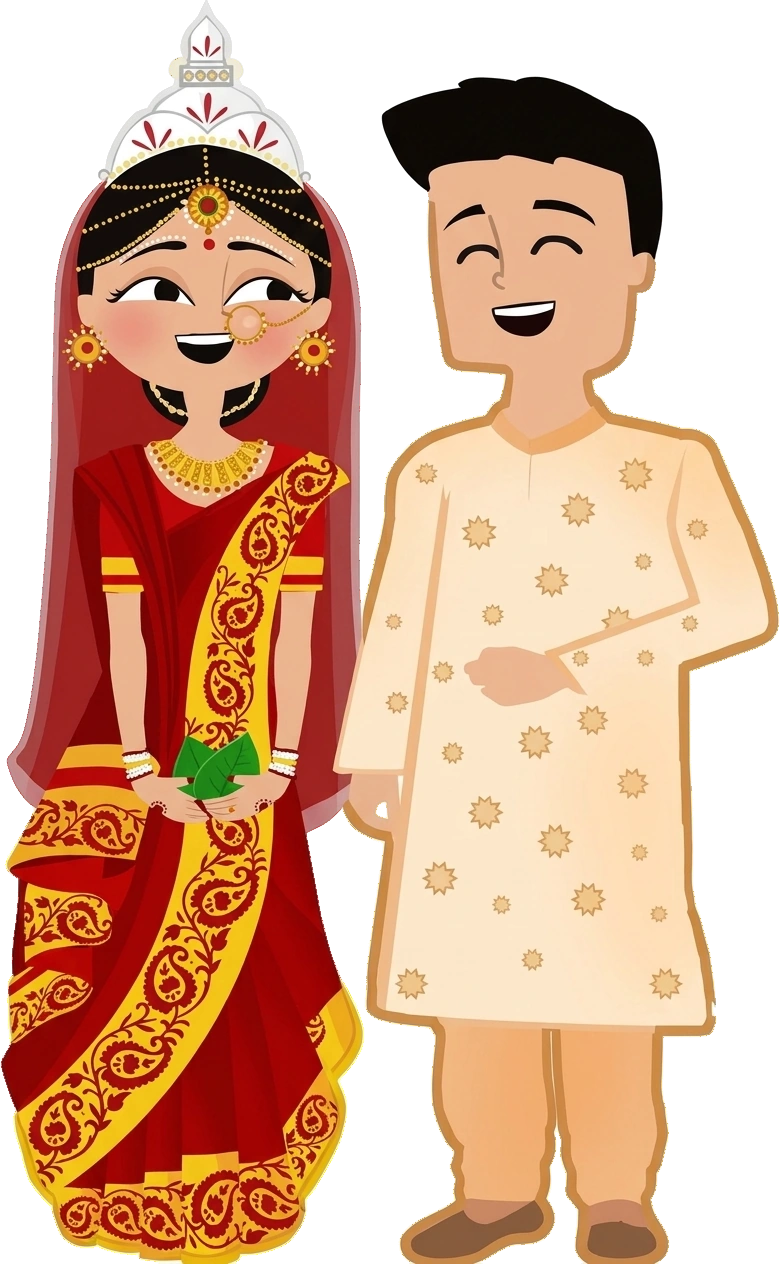
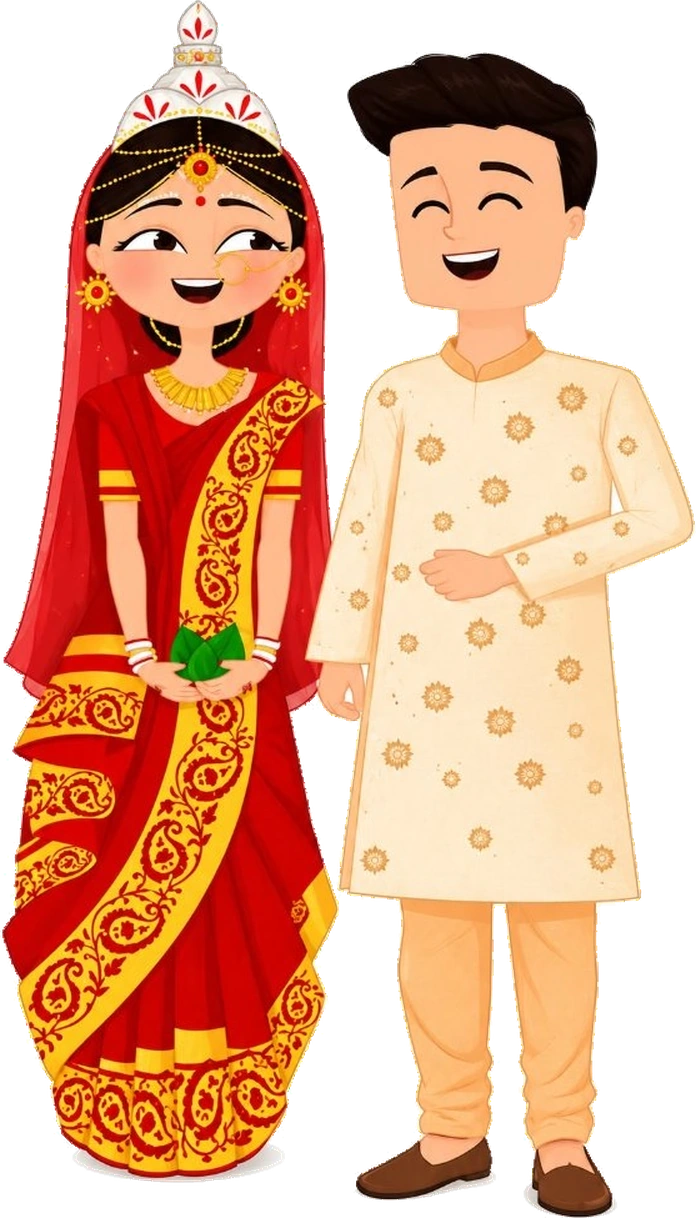
Upgrade couple illustration from original artwork and adjust event card padding to prevent View on Map overlapping couple faces

diff --git a/editable/wedding-data.js b/editable/wedding-data.js
@@ -78,6 +78,7 @@ window.WEDDING_DATA = {
       theme: "dark",
       topMask: "linear-gradient(to bottom, black 25%, transparent 37%)",
       botMask: "linear-gradient(to top, black 42%, transparent 54%)",
+      paddingBottom: "410px",
     },
     {
       name: "THE GOLDEN SOIRÉE",
@@ -95,6 +96,7 @@ window.WEDDING_DATA = {
       bgImage: "./editable/assets/haldi-bg.webp",
       bgColor: "#feebca",
       theme: "light",
+      paddingBottom: "360px",
     },
     {
       name: "THE SACRED UNION",
@@ -112,6 +114,7 @@ window.WEDDING_DATA = {
       bgImage: "./editable/assets/wedding-bg.webp",
       bgColor: "#0a0a2c",
       theme: "dark",
+      paddingBottom: "390px",
       program: [
         { name: "Baraat Arrival", time: "6:00 PM" },
         { name: "Pheras & Sacred Vows", time: "8:00 PM" },
@@ -135,6 +138,7 @@ window.WEDDING_DATA = {
       theme: "dark",
       topMask: "linear-gradient(to bottom, black 28%, transparent 40%)",
       botMask: "linear-gradient(to top, black 44%, transparent 56%)",
+      paddingBottom: "390px",
     },
   ],
 

diff --git a/assets/index-B7GbZwnv.js b/assets/index-B7GbZwnv.js
@@ -95,7 +95,7 @@ Please change the parent <Route path="${R}"> to <Route path="${R==="/"?"*":`${R}
                   backgroundColor: n.bgColor || (isLight ? "#feebca" : "#0d0a27"),
                   borderColor: isLight ? "rgba(180, 110, 20, 0.45)" : "rgba(226, 200, 143, 0.45)",
                   paddingTop: isLight ? "5rem" : "5.5rem",
-                  paddingBottom: isLight ? "265px" : "295px"
+                  paddingBottom: n.paddingBottom || (isLight ? "360px" : "390px")
                 } : {
                   backgroundColor: "rgba(12, 10, 36, 0.62)",
                   borderColor: "rgba(226, 200, 143, 0.4)",
